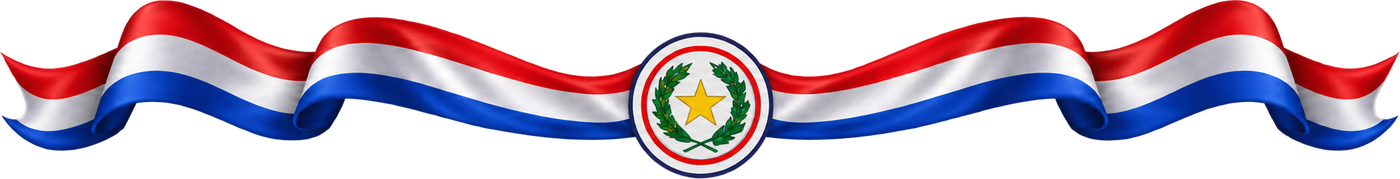
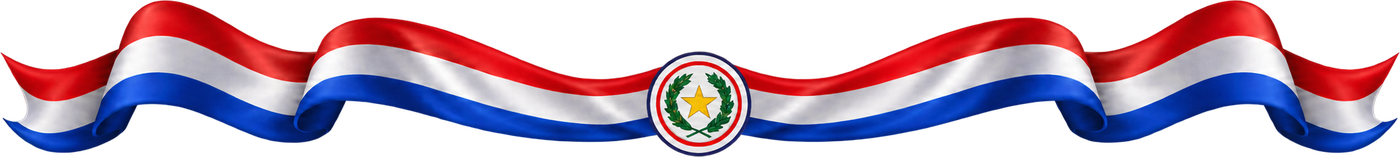
feat(loteriai): troca o asset da guirlanda do topo
Nova arte da guirlanda com brasão, na proporção original (76px de altura),
no lobby, no sorteio e no resumo da rodada.

diff --git a/src/features/bingo-show/components/loteriai/FlagArt.tsx b/src/features/bingo-show/components/loteriai/FlagArt.tsx
@@ -20,7 +20,7 @@ export const FLAG_ART = {
 };
 
 /** Guirlanda do topo com o brasão, centralizada. `height` define o tamanho
- * (largura = altura × 7,82, a proporção do asset). */
+ * (largura = altura × 8,92, a proporção do asset). */
 export function TopFlagBand({ height, top = 0, style }: { height: number; top?: number; style?: React.CSSProperties }) {
   return (
     // eslint-disable-next-line @next/next/no-img-element -- arte estática do tema
